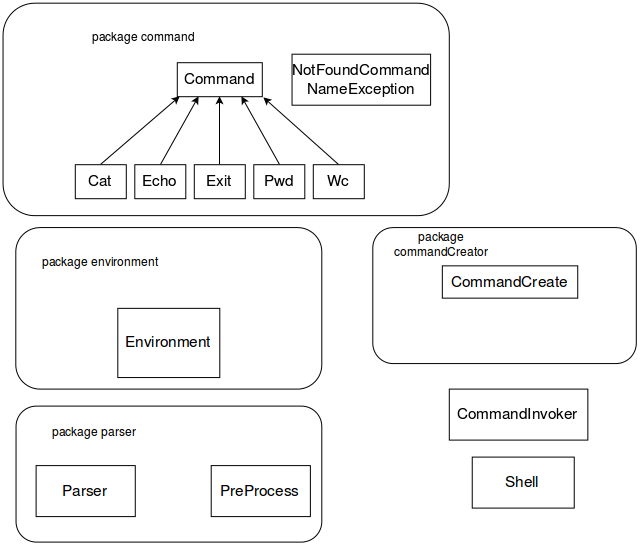
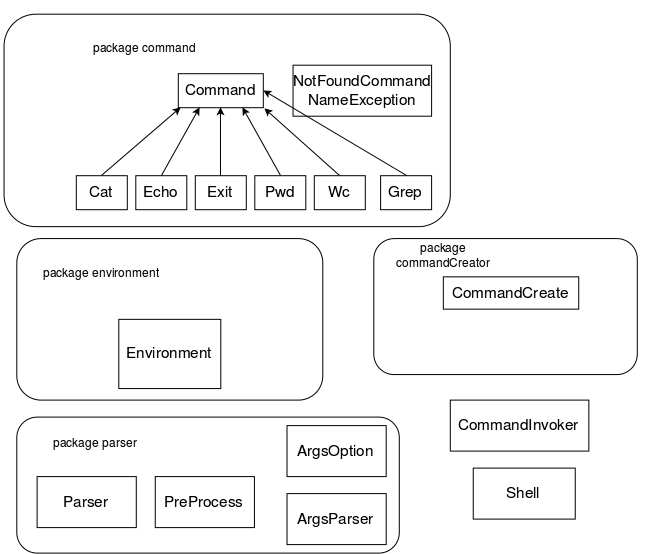
fix README

diff --git a/README.md b/README.md
@@ -1,7 +1,7 @@
 # Задание CLI
 ---
 
--  **ru.spbau.mit.Shell**.
+-  **Shell**.
 Основой класс для запуска проекта. В нем содержится только метод **main**.
 - **CommandCreate**. Возвращает нужную созданную команду.
 - **CommandInvoker**. Выполняем запуск комманд. Если нужно по предобрабатывает их.
@@ -14,4 +14,7 @@
 	- **Pwd**
 	- **Wc**
 	- **Exit**
+	- **Grep**
 - **NotFoundCommandNameException**. Класс для обработки ошибок с неизвестным именем команды.
+- **ArgsOption**. Возможные ключи командной строки для запуска.
+- **ArgsParser**. Класс для парсинга аргументов командной строки.
